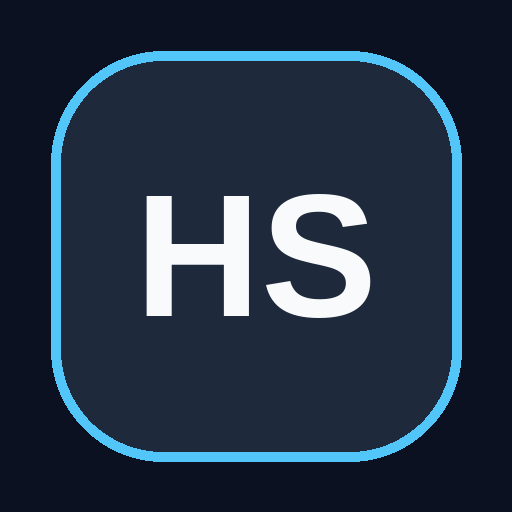
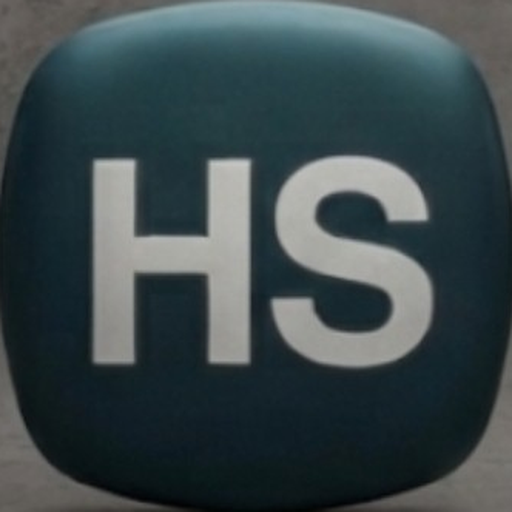
style(jisu): 매트 틸 3D HS 로고로 상단 로고 및 PWA 아이콘 교체 (v202611151115)

diff --git a/JISU/index.html b/JISU/index.html
@@ -1,16 +1,16 @@
 <!DOCTYPE html>
 <html lang="ko">
 <head>
-  <meta name="jisu-build" content="202611151110">
+  <meta name="jisu-build" content="202611151115">
   <meta charset="UTF-8" />
   <meta name="viewport" content="width=device-width, initial-scale=1.0, viewport-fit=cover" />
   <meta name="theme-color" content="#0b1120" />
   <meta name="apple-mobile-web-app-capable" content="yes" />
   <meta name="apple-mobile-web-app-status-bar-style" content="black-translucent" />
   <meta name="mobile-web-app-capable" content="yes" />
-  <link rel="manifest" id="jisuManifestLink" href="./manifest.webmanifest?v=202611151110" />
-  <link rel="icon" type="image/png" sizes="192x192" href="./icon-192.png?v=202611151110" />
-  <link rel="apple-touch-icon" href="./icon-192.png?v=202611151110" />
+  <link rel="manifest" id="jisuManifestLink" href="./manifest.webmanifest?v=202611151115" />
+  <link rel="icon" type="image/png" sizes="192x192" href="./icon-192.png?v=202611151115" />
+  <link rel="apple-touch-icon" href="./icon-192.png?v=202611151115" />
   <title>지수 통합 관제 상황실</title>
   <script src="https://cdn.tailwindcss.com/3.4.17"></script>
   <link rel="preconnect" href="https://fonts.googleapis.com">
@@ -2826,8 +2826,8 @@ body:not(#zz) #hotspot-pitch .pitch-input:focus{box-shadow:0 0 0 1px rgba(125,21
   <!-- Top Navigation / Situation Room Header (Always 1 single line) -->
   <header class="w-full px-3 sm:px-4 py-2 bg-slate-950/90 backdrop-blur-md border-b border-white/10 flex flex-nowrap items-center justify-between gap-2 sm:gap-3 z-40 overflow-x-auto">
     <div class="flex items-center gap-2 sm:gap-3 flex-shrink-0">
-      <div class="hs-logo w-8 h-8 sm:w-9 sm:h-9 rounded-xl flex items-center justify-center font-black text-sm sm:text-base flex-shrink-0">
-        HS
+      <div class="hs-logo w-8 h-8 sm:w-9 sm:h-9 rounded-xl overflow-hidden flex items-center justify-center flex-shrink-0" style="background:#0f262c;padding:0;box-shadow:0 2px 10px rgba(0,0,0,0.45);">
+        <img src="./icon-192.png?v=202611151115" alt="HS" class="w-full h-full object-cover" />
       </div>
       <div class="flex items-center gap-2 flex-shrink-0">
         <h1 class="text-sm sm:text-base md:text-lg font-extrabold tracking-tight text-white whitespace-nowrap">지수 통합 관제 상황실</h1>
@@ -6437,8 +6437,8 @@ async function loadPhotos(){try{const db=await dbOpen();const rows=await new Pro
     const ml=document.getElementById('jisuManifestLink');
     if(ml){
       const base=location.href.split('#')[0];
-      const ico192=new URL('./icon-192.png?v=202611151110',base).href;
-      const ico512=new URL('./icon-512.png?v=202611151110',base).href;
+      const ico192=new URL('./icon-192.png?v=202611151115',base).href;
+      const ico512=new URL('./icon-512.png?v=202611151115',base).href;
       const mObj={name:zTitle+' 작업자',short_name:zTitle,start_url:base,scope:new URL('./',base).href,display:'standalone',background_color:'#0b1120',theme_color:'#0b1120',icons:[{src:ico192,sizes:'192x192',type:'image/png'},{src:ico512,sizes:'512x512',type:'image/png'}]};
       ml.href='data:application/manifest+json;charset=utf-8,'+encodeURIComponent(JSON.stringify(mObj));
     }
